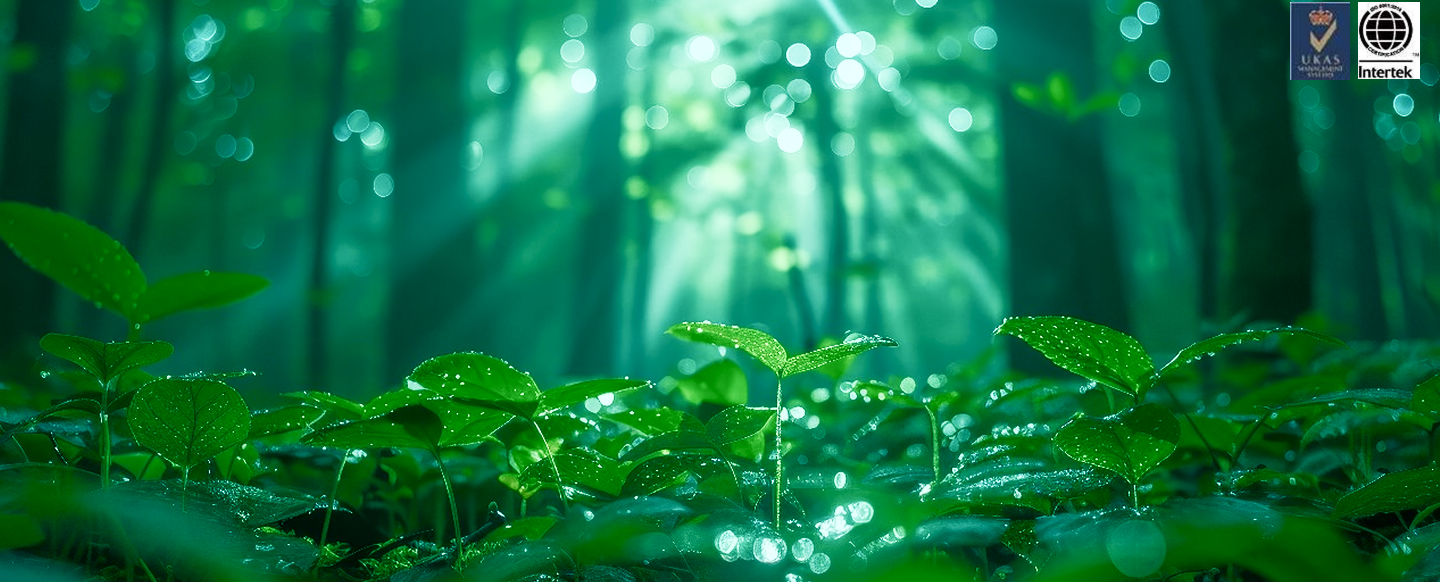
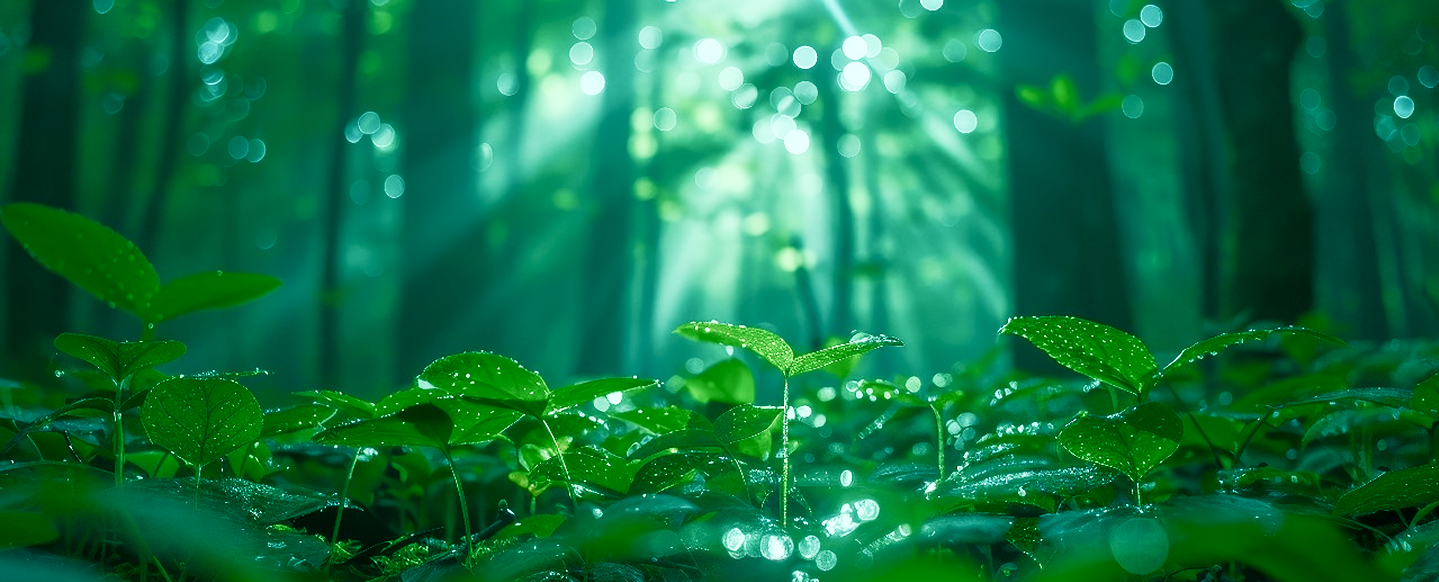
commit

diff --git a/src/components/home/work.tsx b/src/components/home/work.tsx
@@ -32,7 +32,7 @@ const workCards = [
     title: "Precision Mapping for Smarter Decisions",
     description:
       "OAt SR Asia, we deliver advanced GIS mapping and remote sensing services to transform spatial data into strategic insights. From environmental monitoring to infrastructure planning, our geospatial solutions empower organizations to visualize, analyze, and act with clarity and confidence.",
-    image: "/workk/8.png",
+    image: "/workk/8.PNG",
   },
   {
     title: "Policy Intelligence for Impactful Governance",
@@ -62,7 +62,7 @@ const workCards = [
     title: "Expert Advisory Project Success and Feasibility",
     description:
       "At SR Asia, we deliver end-to-end PMC and advisory services—from DPRs and feasibility studies to M&E and strategic planning. With deep sectoral insight and robust execution support, we ensure your projects are viable, future-ready, and aligned for long-term impact.",
-    image: "/workk/7.png",
+    image: "/workk/7.PNG",
   },
 
 ];

diff --git a/src/components/home/hero.tsx b/src/components/home/hero.tsx
@@ -38,7 +38,7 @@ const Hero = () => {
    <section className="relative h-[600px] md:h-[600px] overflow-hidden">
   <div className="relative w-full h-[600px]"> {/* Relative added here */}
     <Image
-      src="/group.png"
+      src="/main.png"
       alt="Background"
       fill
       priority
